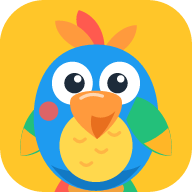
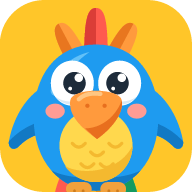
Publish from Layerwise

diff --git a/src/brand.config.tsx b/src/brand.config.tsx
@@ -20,35 +20,61 @@ export type MascotPose =
 
 export type MascotPalette = {
   body: string;
+  bodyLight: string;
   bodyShade: string;
   belly: string;
+  bellyShade: string;
   crest: string;
+  crestShade: string;
   crestTip: string;
+  crestTipShade: string;
   wing: string;
-  wingTip: string;
+  wingShade: string;
   tail: string;
+  tailShade: string;
+  tailGreen: string;
+  tailGreenShade: string;
+  tailYellow: string;
+  tailYellowShade: string;
   beak: string;
+  beakLight: string;
   beakShade: string;
   face: string;
+  faceShade: string;
+  cheek: string;
   primaryTear: string;
   feet: string;
+  feetShade: string;
   ink: string;
 };
 
 const mascotPalette: MascotPalette = {
   body: '#1E9BF0',
+  bodyLight: '#62C1F8',
   bodyShade: '#1279C4',
   belly: '#FFD84D',
+  bellyShade: '#F4B92F',
   crest: '#FF5A4F',
+  crestShade: '#DB3D37',
   crestTip: '#FF9A3D',
-  wing: '#23C07A',
-  wingTip: '#FFB627',
+  crestTipShade: '#E8761F',
+  wing: '#1E9BF0',
+  wingShade: '#1279C4',
   tail: '#FF5A4F',
+  tailShade: '#DB3D37',
+  tailGreen: '#23C07A',
+  tailGreenShade: '#159A60',
+  tailYellow: '#FFB627',
+  tailYellowShade: '#E9930F',
   beak: '#FF9A3D',
+  beakLight: '#FFC682',
   beakShade: '#E86F1E',
   face: '#FFFFFF',
+  faceShade: '#D9E9F5',
+  cheek: '#FF9C94',
   primaryTear: '#BFE6FF',
   feet: '#F2A13C',
+  feetShade: '#CF7C1C',
   ink: '#1D2B3A'
 };
 
@@ -113,74 +139,99 @@ export function brandCssVariables(): string {
   return `:root{${lines.join('')}}`;
 }
 
+/** One feather pointing down from its root, shaded on one side of the quill. */
+function Feather({
+  x,
+  y,
+  angle,
+  length,
+  width,
+  fill,
+  shade
+}: {
+  x: number;
+  y: number;
+  angle: number;
+  length: number;
+  width: number;
+  fill: string;
+  shade: string;
+}) {
+  const half = width / 2;
+  const rightEdge = `C${half * 0.8} ${length} ${half} ${length * 0.72} ${half} 0`;
+  return (
+    <g transform={`translate(${x} ${y}) rotate(${angle})`}>
+      <path
+        d={`M${-half} 0 C${-half} ${length * 0.72} ${-half * 0.8} ${length} 0 ${length} ${rightEdge} Z`}
+        fill={fill}
+      />
+      <path d={`M0 ${length} ${rightEdge} L0 0 Z`} fill={shade} />
+    </g>
+  );
+}
+
+/**
+ * A wing flaring out from the side of the body, pivoting at (0, 0). It's the body's own
+ * color and sits behind it, so it grows out of the silhouette with no seam: wide at the
+ * root, tapering to a soft point, with a shadow along its lower edge.
+ */
+function drawWing(c: MascotPalette, raised: boolean): ReactElement {
+  return raised ? (
+    <g>
+      <path
+        d='M-12 -20 C0 -34 18 -46 36 -50 C42 -51 44 -46 42 -41 C38 -22 28 0 6 16 L-20 16 Z'
+        fill={c.wing}
+      />
+      <path
+        d='M42 -41 C38 -22 28 0 6 16 L-8 16 C12 2 28 -20 36 -50 C42 -51 44 -46 42 -41 Z'
+        fill={c.wingShade}
+      />
+    </g>
+  ) : (
+    <g>
+      <path
+        d='M-20 -24 C10 -26 30 4 35 32 C36 39 30 41 26 37 C17 28 8 23 -20 22 Z'
+        fill={c.wing}
+      />
+      <path
+        d='M35 32 C36 39 30 41 26 37 C17 28 8 23 -20 22 L-20 10 C4 10 22 18 35 32 Z'
+        fill={c.wingShade}
+      />
+    </g>
+  );
+}
+
 /** The original Polly artwork. Every shape is drawn here from scratch. */
 function drawMascot(pose: MascotPose, c: MascotPalette): ReactElement {
-  const leftWing =
-    pose === 'cheer'
-      ? 'translate(-16 -2) rotate(112 56 104)'
-      : pose === 'sad'
-        ? 'rotate(-8 56 104)'
-        : 'rotate(6 56 104)';
-  const rightWing =
-    pose === 'cheer'
-      ? 'translate(16 -2) rotate(-112 144 104)'
-      : pose === 'wave'
-        ? 'translate(18 -4) rotate(-118 144 104)'
-        : pose === 'think'
-          ? 'rotate(-72 144 104)'
-          : pose === 'sad'
-            ? 'rotate(8 144 104)'
-            : 'rotate(-6 144 104)';
+  const raised = (side: 'left' | 'right') =>
+    pose === 'cheer' || (pose === 'wave' && side === 'right');
+  const wingAt = (side: 'left' | 'right') => {
+    if (raised(side)) return pose === 'cheer' ? 'translate(146 94) rotate(8)' : 'translate(146 94)';
+    return pose === 'sad' ? 'translate(146 104) rotate(14)' : 'translate(146 94)';
+  };
+  // The drawing is symmetrical, so the left wing is the right one mirrored.
+  const wing = (side: 'left' | 'right') => (
+    <g transform={side === 'left' ? 'translate(200 0) scale(-1 1)' : undefined}>
+      <g transform={wingAt(side)} data-mascot-wing={side}>
+        <g>{drawWing(c, raised(side))}</g>
+      </g>
+    </g>
+  );
 
   return (
     <g>
       {/* Tail */}
-      <path
-        d='M78 150 C60 168 54 186 62 196 C76 194 90 178 94 158 Z'
-        fill={c.tail}
-      />
-      <path
-        d='M92 156 C88 176 90 192 100 198 C110 192 112 176 108 156 Z'
-        fill={c.wingTip}
-      />
-      <path
-        d='M122 150 C140 168 146 186 138 196 C124 194 110 178 106 158 Z'
-        fill={c.wing}
-      />
+      <Feather x={84} y={146} angle={24} length={46} width={22} fill={c.tail} shade={c.tailShade} />
+      <Feather x={116} y={146} angle={-24} length={46} width={22} fill={c.tailGreen} shade={c.tailGreenShade} />
+      <Feather x={100} y={146} angle={0} length={52} width={22} fill={c.tailYellow} shade={c.tailYellowShade} />
 
-      {/* Feet */}
-      <g fill={c.feet}>
-        <rect x='74' y='164' width='22' height='12' rx='6' />
-        <rect x='104' y='164' width='22' height='12' rx='6' />
-      </g>
-
-      {/* Left wing, behind the body */}
-      <g transform={leftWing} data-mascot-wing='left'>
-        <path
-          d='M60 84 C38 92 28 118 34 142 C48 142 66 128 72 104 Z'
-          fill={c.wing}
-        />
-        <path
-          d='M34 142 C32 132 32 124 34 116 C42 122 50 126 58 128 C50 136 42 141 34 142 Z'
-          fill={c.wingTip}
-        />
-      </g>
+      {wing('left')}
+      {wing('right')}
 
       {/* Crest */}
-      <g>
-        <path
-          d='M100 42 C84 30 78 14 84 4 C98 8 108 22 108 40 Z'
-          fill={c.crest}
-        />
-        <path
-          d='M92 44 C74 38 62 26 62 14 C78 12 94 24 100 40 Z'
-          fill={c.crestTip}
-        />
-        <path
-          d='M106 42 C114 28 126 18 138 18 C138 32 126 44 112 48 Z'
-          fill={c.crestTip}
-        />
-      </g>
+      <Feather x={84} y={52} angle={152} length={40} width={20} fill={c.crestTip} shade={c.crestTipShade} />
+      <Feather x={116} y={52} angle={-152} length={40} width={20} fill={c.crestTip} shade={c.crestTipShade} />
+      <Feather x={100} y={50} angle={180} length={48} width={22} fill={c.crest} shade={c.crestShade} />
 
       {/* Body and head */}
       <path
@@ -188,74 +239,77 @@ function drawMascot(pose: MascotPose, c: MascotPalette): ReactElement {
         fill={c.body}
       />
       <path
-        d='M58 148 C70 164 84 172 100 172 C116 172 130 164 142 148 C128 158 72 158 58 148 Z'
+        d='M141.75 153 C131.5 165 117 172 100 172 C83 172 68.5 165 58.25 153 C76 163 124 163 141.75 153 Z'
         fill={c.bodyShade}
       />
+      <path
+        d='M58 78 C62 60 76 47 94 43 C81 52 70 64 66 80 C64 86 57 84 58 78 Z'
+        fill={c.bodyLight}
+      />
+
+      {/* Belly, with rows of little feathers */}
       <ellipse cx='100' cy='130' rx='34' ry='34' fill={c.belly} />
       <path
-        d='M80 124 q5 5 10 0 M100 134 q5 5 10 0 M112 118 q5 5 10 0 M86 146 q5 5 10 0'
-        stroke={c.beak}
+        d='M134 130 C134 149 119 164 100 164 C88 164 77 158 71 149 C87 158 122 155 134 130 Z'
+        fill={c.bellyShade}
+      />
+      <path
+        d='M78 128 q6 7 12 0 M95 136 q6 7 12 0 M112 128 q6 7 12 0 M86 147 q6 7 12 0 M104 147 q6 7 12 0'
+        stroke={c.bellyShade}
         strokeWidth='3'
         strokeLinecap='round'
         fill='none'
-        opacity='0.55'
       />
 
+      {/* Feet */}
+      <g>
+        <rect x='72' y='164' width='24' height='13' rx='6.5' fill={c.feet} />
+        <rect x='104' y='164' width='24' height='13' rx='6.5' fill={c.feet} />
+        <path
+          d='M80 172 v5 M88 172 v5 M112 172 v5 M120 172 v5'
+          stroke={c.feetShade}
+          strokeWidth='2.5'
+          strokeLinecap='round'
+        />
+      </g>
+
       {/* Face */}
-      <ellipse cx='78' cy='72' rx='19' ry='20' fill={c.face} />
-      <ellipse cx='122' cy='72' rx='19' ry='20' fill={c.face} />
-      <circle cx='56' cy='98' r='9' fill={c.crest} opacity='0.85' />
-      <circle cx='144' cy='98' r='9' fill={c.crest} opacity='0.85' />
+      <ellipse cx='78' cy='72' rx='20' ry='21' fill={c.face} />
+      <ellipse cx='122' cy='72' rx='20' ry='21' fill={c.face} />
+      <path d='M62 84 C68 94 88 96 96 82 C90 90 70 92 62 84 Z' fill={c.faceShade} />
+      <path d='M104 82 C112 96 132 94 138 84 C130 92 110 90 104 82 Z' fill={c.faceShade} />
+      <ellipse cx='62' cy='98' rx='9' ry='7' fill={c.cheek} />
+      <ellipse cx='138' cy='98' rx='9' ry='7' fill={c.cheek} />
       {drawEyes(pose, c)}
 
       {/* Beak: a big hooked parrot beak */}
-      {pose === 'cheer' || pose === 'talk' ? (
+      <g transform={pose === 'sad' ? 'translate(0 4)' : undefined}>
+        {pose === 'cheer' || pose === 'talk' ? (
+          <>
+            <path d='M86 100 C88 122 96 134 104 134 C112 134 116 118 114 100 Z' fill={c.ink} />
+            <path
+              d='M93 116 C96 126 100 130 104 130 C108 130 110 122 110 116 C104 112 98 112 93 116 Z'
+              fill={c.crest}
+            />
+          </>
+        ) : null}
         <path
-          d='M86 100 C88 122 96 134 104 134 C112 134 116 118 114 100 Z'
-          fill={c.ink}
-        />
-      ) : null}
-      {pose === 'cheer' || pose === 'talk' ? (
-        <path
-          d='M93 116 C96 126 100 130 104 130 C108 130 110 122 110 116 C104 112 98 112 93 116 Z'
-          fill={c.crest}
-        />
-      ) : null}
-      <path
-        d={
-          pose === 'sad'
-            ? 'M76 92 C78 80 122 80 124 92 C126 106 112 122 101 130 C90 122 74 108 76 92 Z'
-            : 'M76 88 C78 76 122 76 124 88 C126 102 112 116 101 124 C90 116 74 104 76 88 Z'
-        }
-        fill={c.beak}
-      />
-      <path
-        d={
-          pose === 'sad'
-            ? 'M101 130 C96 124 94 116 96 108 C104 112 112 110 118 104 C114 114 108 124 101 130 Z'
-            : 'M101 124 C96 118 94 110 96 102 C104 106 112 104 118 98 C114 108 108 118 101 124 Z'
-        }
-        fill={c.beakShade}
-      />
-      <path
-        d='M86 86 C92 82 100 82 106 84'
-        fill='none'
-        stroke={c.face}
-        strokeWidth='3'
-        strokeLinecap='round'
-        opacity='0.6'
-      />
-
-      {/* Right wing, in front */}
-      <g transform={rightWing} data-mascot-wing='right'>
-        <path
-          d='M140 84 C162 92 172 118 166 142 C152 142 134 128 128 104 Z'
-          fill={c.wing}
+          d='M76 88 C78 76 122 76 124 88 C126 102 112 116 101 124 C90 116 74 104 76 88 Z'
+          fill={c.beak}
         />
         <path
-          d='M166 142 C168 132 168 124 166 116 C158 122 150 126 142 128 C150 136 158 141 166 142 Z'
-          fill={c.wingTip}
+          d='M124 88 C126 102 112 116 101 124 C97 121 93 117 90 114 C104 114 118 104 124 88 Z'
+          fill={c.beakShade}
         />
+        <path
+          d='M84 87 C89 82 97 81 104 82'
+          fill='none'
+          stroke={c.beakLight}
+          strokeWidth='4'
+          strokeLinecap='round'
+        />
+        <circle cx='92' cy='93' r='2' fill={c.beakShade} />
+        <circle cx='108' cy='93' r='2' fill={c.beakShade} />
       </g>
 
       {pose === 'think' ? (
@@ -306,10 +360,12 @@ function drawEyes(pose: MascotPose, c: MascotPalette): ReactElement {
   const look = pose === 'think' ? { x: 4, y: -5 } : { x: 0, y: 0 };
   return (
     <g>
-      <circle cx={80 + look.x} cy={72 + look.y} r='9.5' fill={c.ink} />
-      <circle cx={120 + look.x} cy={72 + look.y} r='9.5' fill={c.ink} />
-      <circle cx={83 + look.x} cy={68 + look.y} r='3.5' fill={c.face} />
-      <circle cx={123 + look.x} cy={68 + look.y} r='3.5' fill={c.face} />
+      <circle cx={80 + look.x} cy={72 + look.y} r='10.5' fill={c.ink} />
+      <circle cx={120 + look.x} cy={72 + look.y} r='10.5' fill={c.ink} />
+      <circle cx={84 + look.x} cy={67 + look.y} r='4' fill={c.face} />
+      <circle cx={124 + look.x} cy={67 + look.y} r='4' fill={c.face} />
+      <circle cx={76 + look.x} cy={77 + look.y} r='1.8' fill={c.face} />
+      <circle cx={116 + look.x} cy={77 + look.y} r='1.8' fill={c.face} />
       {pose === 'sad' ? (
         <g stroke={c.ink} strokeWidth='5' strokeLinecap='round'>
           <path d='M64 54 L84 48' />

diff --git a/src/routes/index.tsx b/src/routes/index.tsx
@@ -134,7 +134,7 @@ function Home() {
       <main>
         <section className='mx-auto grid max-w-6xl items-center gap-10 px-4 py-12 sm:px-6 lg:grid-cols-2 lg:py-20'>
           <div className='flex flex-col items-center text-center lg:items-start lg:text-left'>
-            <div className='mb-4 flex items-end gap-3'>
+            <div className='mb-4 flex items-end gap-5'>
               <Mascot pose='wave' animate='bob' className='size-28 sm:size-32' />
               <p className='relative mb-8 rounded-2xl border-2 border-border bg-card px-4 py-2 font-black'>
                 ¡Hola! Soy {brand.mascot.name}.

diff --git a/src/styles/app.css b/src/styles/app.css
@@ -190,12 +190,12 @@
     transform: rotate(0deg);
   }
   50% {
-    transform: rotate(16deg);
+    transform: rotate(-16deg);
   }
 }
 .mascot-waving [data-mascot-wing='right'] > * {
   transform-box: view-box;
-  transform-origin: 144px 104px;
+  transform-origin: 0 0;
   animation: mascot-wave 0.7s ease-in-out infinite;
 }
 @keyframes pop-in {
